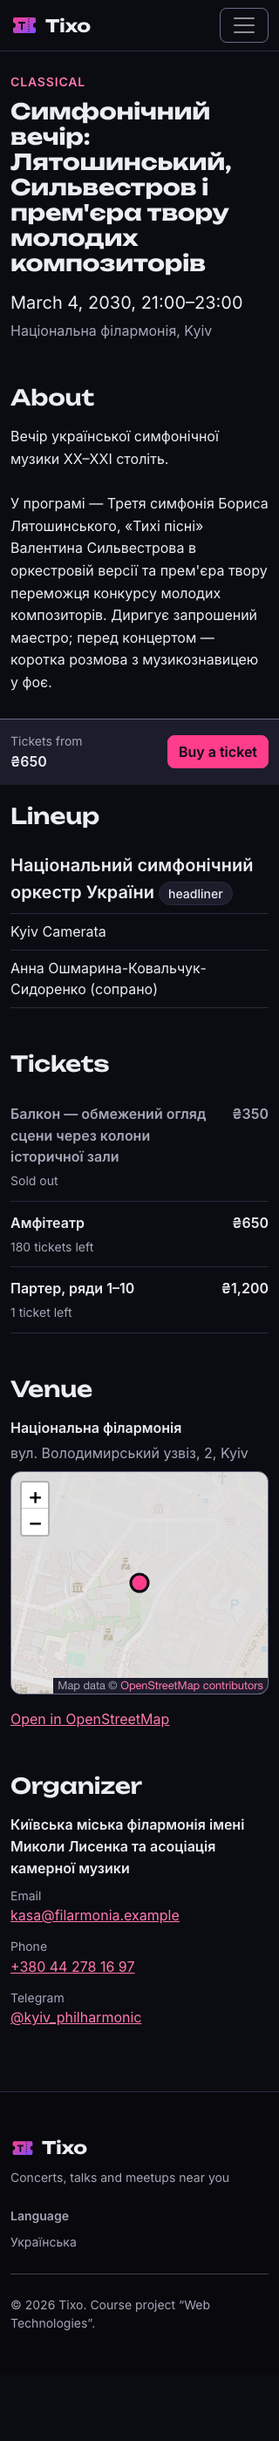
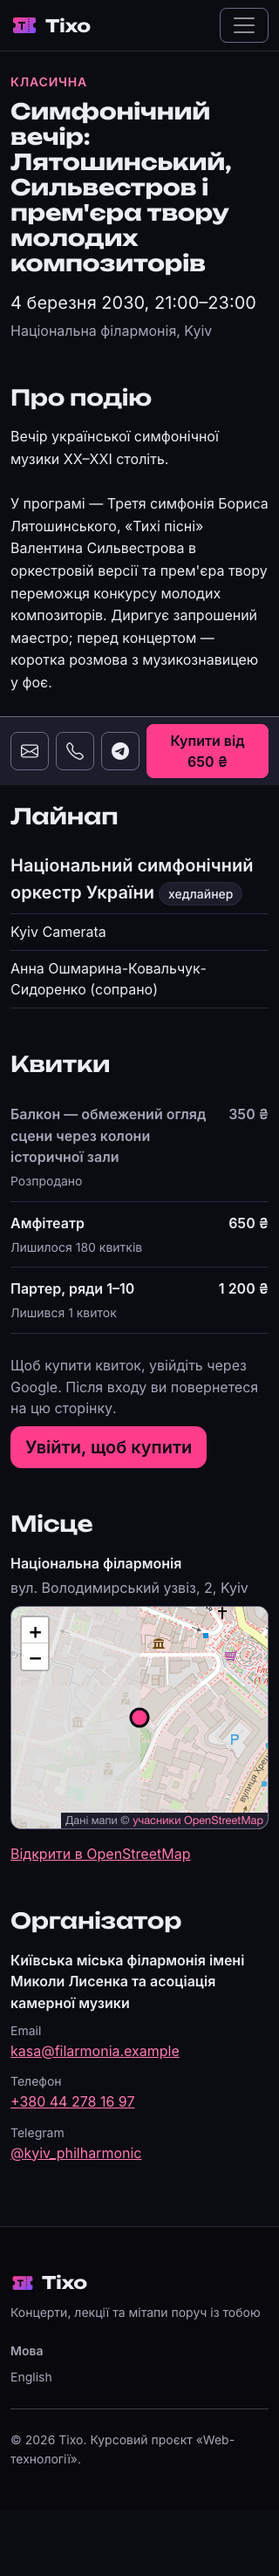
feat: pin organizer contacts in the mobile bottom bar

diff --git a/web/templates/pages/public_event.html b/web/templates/pages/public_event.html
@@ -111,11 +111,20 @@
     </div>
   </div>
 
-  {{if .Data.OnSale}}
-  <div class="tixo-buybar d-lg-none js-buybar">
-    <div class="container d-flex align-items-center justify-content-between gap-3 py-2">
-      <p class="mb-0"><span class="d-block small text-body-secondary">{{.T "landing.price_from_label"}}</span><span class="fw-semibold">{{.Money .Data.PriceFrom}}</span></p>
-      <a class="btn btn-tixo flex-shrink-0" href="#tickets">{{.T "landing.buy_cta"}}</a>
+  {{if or .Data.OnSale .Data.BarContacts}}
+  <div class="tixo-buybar d-lg-none js-buybar" role="region" aria-label="{{.T "landing.bar.label"}}">
+    <div class="container d-flex align-items-center gap-2 py-2">
+      {{with .Data.BarContacts}}
+      <ul class="list-unstyled d-flex gap-2 mb-0 flex-shrink-0">
+        {{range .}}<li><a class="btn btn-quiet tixo-bar-contact" href="{{.Href}}"><i class="bi {{.Icon}}" aria-hidden="true"></i><span class="visually-hidden">{{$.T .Action "Value" .Text}}</span></a></li>
+        {{end}}
+      </ul>
+      {{end}}
+      {{if .Data.OnSale}}
+      <a class="btn btn-tixo ms-auto js-buybar-buy" href="#tickets">{{.T "landing.bar.buy" "Price" (.Money .Data.PriceFrom)}}</a>
+      {{else}}
+      <p class="ms-auto mb-0 small text-body-secondary text-end">{{template "landing_sale_state" .}}</p>
+      {{end}}
     </div>
   </div>
   {{end}}
@@ -128,6 +137,8 @@
 {{define "scripts_extra"}}
 <script src="https://cdn.jsdelivr.net/npm/leaflet@1.9.4/dist/leaflet.js" integrity="sha384-cxOPjt7s7Iz04uaHJceBmS+qpjv2JkIHNVcuOrM+YHwZOmJGBXI00mdUXEq65HTH" crossorigin="anonymous"></script>
 {{end}}
+
+{{define "landing_sale_state"}}{{if eq .Data.Sale "cancelled"}}{{.T "landing.cancelled.title"}}{{else if eq .Data.Sale "ended"}}{{.T "landing.tickets.ended"}}{{else if eq .Data.Sale "sold_out"}}{{.T "landing.tickets.all_sold_out"}}{{else}}{{.T "landing.tickets.none"}}{{end}}{{end}}
 
 {{define "landing_buy_errors"}}
 {{$errs := .Data.Buy.Errors}}

diff --git a/web/static/js/app.js b/web/static/js/app.js
@@ -155,16 +155,18 @@ setupLineupAutocomplete();
 
 function setupBuyBar() {
   const bar = document.querySelector(".js-buybar");
+  const buy = bar?.querySelector(".js-buybar-buy");
   const tickets = document.getElementById("tickets");
-  if (!bar || !tickets || typeof IntersectionObserver !== "function") {
+  if (!bar || !buy || !tickets || typeof IntersectionObserver !== "function") {
     return;
   }
+  const target = bar.querySelector(".tixo-bar-contact") ? buy : bar;
   new IntersectionObserver((entries) => {
     for (const entry of entries) {
-      if (entry.isIntersecting && bar.contains(document.activeElement)) {
+      if (entry.isIntersecting && target.contains(document.activeElement)) {
         tickets.focus();
       }
-      bar.hidden = entry.isIntersecting;
+      target.hidden = entry.isIntersecting;
     }
   }).observe(tickets);
 }

diff --git a/web/static/css/app.css b/web/static/css/app.css
@@ -745,8 +745,19 @@ body:has(.tixo-buybar) {
   border-top: 1px solid var(--tixo-border-strong);
 }
 
-.tixo-buybar[hidden] {
+.tixo-buybar[hidden],
+.tixo-buybar .btn[hidden] {
   display: none;
+}
+
+.tixo-bar-contact {
+  display: inline-flex;
+  align-items: center;
+  justify-content: center;
+  width: 2.75rem;
+  height: 2.75rem;
+  padding: 0;
+  font-size: var(--tixo-text-lg);
 }
 
 .tixo-map {

diff --git a/internal/web/controllers/public_events.go b/internal/web/controllers/public_events.go
@@ -49,9 +49,11 @@ type landingArtist struct {
 }
 
 type landingContact struct {
-	Label string
-	Text  string
-	Href  string
+	Label  string
+	Action string
+	Icon   string
+	Text   string
+	Href   string
 }
 
 type landingData struct {
@@ -93,6 +95,16 @@ type buyForm struct {
 }
 
 func (d landingData) OnSale() bool { return d.Sale == saleOpen }
+
+func (d landingData) BarContacts() []landingContact {
+	var out []landingContact
+	for _, c := range d.Contacts {
+		if c.Href != "" {
+			out = append(out, c)
+		}
+	}
+	return out
+}
 
 func (d landingData) Quantities() []int {
 	out := make([]int, orders.MaxQuantity)
@@ -287,17 +299,17 @@ func saleState(e dbgen.Event, tiers []landingTier, now time.Time) string {
 func contactsFrom(c map[string]string) []landingContact {
 	var out []landingContact
 	if email := c[organizers.ContactKeyEmail]; email != "" {
-		out = append(out, landingContact{Label: "landing.contact.email", Text: email, Href: "mailto:" + email})
+		out = append(out, landingContact{Label: "landing.contact.email", Action: "landing.bar.email", Icon: "bi-envelope", Text: email, Href: "mailto:" + email})
 	}
 	if phone := c[organizers.ContactKeyPhone]; phone != "" {
-		contact := landingContact{Label: "landing.contact.phone", Text: phone}
+		contact := landingContact{Label: "landing.contact.phone", Action: "landing.bar.phone", Icon: "bi-telephone", Text: phone}
 		if digits := phoneDigits(phone); len(digits) >= 5 {
 			contact.Href = "tel:" + digits
 		}
 		out = append(out, contact)
 	}
 	if tg := c[organizers.ContactKeyTelegram]; tg != "" {
-		contact := landingContact{Label: "landing.contact.telegram", Text: tg}
+		contact := landingContact{Label: "landing.contact.telegram", Action: "landing.bar.telegram", Icon: "bi-telegram", Text: tg}
 		handle := strings.TrimPrefix(strings.TrimPrefix(strings.TrimPrefix(tg, "https://t.me/"), "t.me/"), "@")
 		if telegramHandle.MatchString(handle) {
 			contact.Text, contact.Href = "@"+handle, "https://t.me/"+handle

diff --git a/internal/web/controllers/public_events_test.go b/internal/web/controllers/public_events_test.go
@@ -3,6 +3,7 @@ package controllers
 import (
 	"context"
 	"net/http"
+	"regexp"
 	"strings"
 	"testing"
 	"time"
@@ -193,5 +194,40 @@ func TestLandingLoadsMapOnlyThereWithTextFallback(t *testing.T) {
 	}
 	if home := s.request(t, http.MethodGet, "/", nil).Body.String(); strings.Contains(home, "leaflet") {
 		t.Error("home page loads leaflet")
+	}
+}
+
+func TestMobileBarKeepsOrganizerContactsOnScreen(t *testing.T) {
+	s := newAuthSite(t)
+	standard := []tiers.Input{{Name: "Standard", Price: 50000, Quantity: 10}}
+	s.publicEvent(t, publicEvent{slug: "bar-open", status: events.StatusPublished, tiers: standard})
+	s.publicEvent(t, publicEvent{slug: "bar-cancelled", status: events.StatusCancelled, tiers: standard})
+	bar := regexp.MustCompile(`(?s)<div class="tixo-buybar[^>]*>(.*?)</div>\s*</div>`)
+
+	for path, wantBuy := range map[string]bool{"/events/bar-open": true, "/events/bar-cancelled": false} {
+		m := bar.FindStringSubmatch(s.request(t, http.MethodGet, path, nil).Body.String())
+		if m == nil {
+			t.Fatalf("%s: no bottom bar", path)
+		}
+		for _, w := range []string{`href="mailto:hello@kyiv.live"`, `href="https://t.me/kyivlive"`, "Написати організатору: hello@kyiv.live"} {
+			if !strings.Contains(m[1], w) {
+				t.Errorf("%s: bar misses %q", path, w)
+			}
+		}
+		if got := strings.Contains(m[1], "Купити від 500 ₴"); got != wantBuy {
+			t.Errorf("%s: buy in bar = %v, want %v", path, got, wantBuy)
+		}
+	}
+}
+
+func TestNoBottomBarWithoutContactsOrSale(t *testing.T) {
+	s := newAuthSite(t)
+	ctx := context.Background()
+	s.publicEvent(t, publicEvent{slug: "bar-none", status: events.StatusCancelled})
+	if _, err := s.pool.Exec(ctx, `UPDATE organizers SET contacts = '{}' WHERE slug = 'org-bar-none'`); err != nil {
+		t.Fatal(err)
+	}
+	if body := s.request(t, http.MethodGet, "/events/bar-none", nil).Body.String(); strings.Contains(body, "tixo-buybar") {
+		t.Error("bottom bar rendered with nothing to show")
 	}
 }
